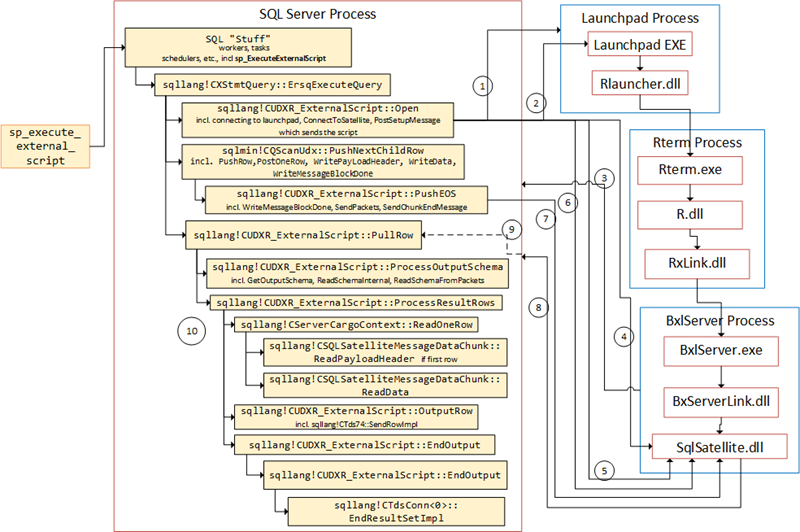
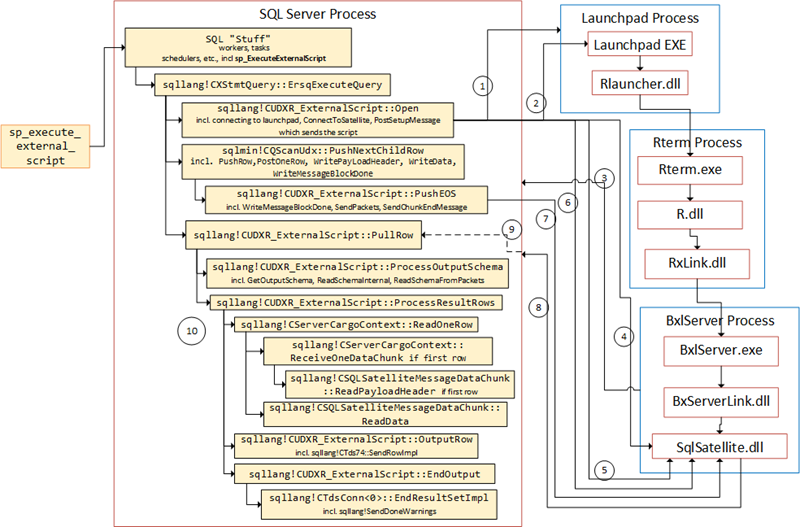
Edited Internals XVII

diff --git a/2018/01/03/microsoft-sql-server-r-services-internals-xvii/index.html b/2018/01/03/microsoft-sql-server-r-services-internals-xvii/index.html
@@ -53,23 +53,7 @@
 </div></div><div data-line='16' class='code-highlight-row numbered'><div class='code-highlight-line'>      <span class="n">sqllang</span><span class="o">!</span><span class="n">CColMetaData</span><span class="o">::</span><span class="n">CCols</span>
 </div></div><div data-line='17' class='code-highlight-row numbered'><div class='code-highlight-line'>    <span class="p">...</span>
 </div></div><div data-line='18' class='code-highlight-row numbered'><div class='code-highlight-line'>  <span class="n">sqllang</span><span class="o">!</span><span class="n">CUDXR_ExternalScript</span><span class="o">::</span><span class="n">OutputRow</span>
-</div></div><div data-line='19' class='code-highlight-row numbered'><div class='code-highlight-line'><span class="n">sqllang</span><span class="o">!</span><span class="n">CUDXR_ExternalScript</span><span class="o">::</span><span class="n">ProcessResultRows</span></div></div></pre></div></figure></p> <p><strong>Code Snippet 5:</strong> <em>Routines from sqllang!CUDXR_ExternalScript::ProcessResultRows</em></p> <p>By now we understand that <code>ProcessResultRows</code> is doing what it says on the packet; it takes the rows coming back from the SqlSatellite, processes it, and then outputs it through <code>sqllang!CUDXR_ExternalScript::OutputRow</code>. From what we see in <em>Code Snippet 5</em>, it looks like the rows being outputted is outputted in the <em>TDS</em> format - look at the calls to <code>sqllang!CTds74::SendRowImpl</code>. This would make sense since clients etc., do not "speak" <em>BXL</em>, and from what we've seen - <em>BXL</em> is what is coming back from the SqlSatellite.</p> <p>So the similar code in the three files (<code>wt1</code>, <code>wt2</code>, and <code>wt3</code>) processes the rows coming back, and outputs them as TDS, cool! What about the fourth file, the last <code>ProcessResultRows</code> - what does that one do? Let's have a look at some of the calls that happens:</p> <p><figure class='code-highlight-figure'><figcaption class='code-highlight-caption'><span class='code-highlight-caption-title'>Last ProcessResultRows</span></figcaption><div class='code-highlight'><pre class='code-highlight-pre'><div data-line='1' class='code-highlight-row numbered'><div class='code-highlight-line'><span class="n">sqllang</span><span class="o">!</span><span class="n">CUDXR_ExternalScript</span><span class="o">::</span><span class="n">ProcessResultRows</span>
-</div></div><div data-line='2' class='code-highlight-row numbered'><div class='code-highlight-line'>  <span class="n">sqllang</span><span class="o">!</span><span class="n">CServerCargoContext</span><span class="o">::</span><span class="n">ReadOneRow</span>
-</div></div><div data-line='3' class='code-highlight-row numbered'><div class='code-highlight-line'>    <span class="p">...</span>
-</div></div><div data-line='4' class='code-highlight-row numbered'><div class='code-highlight-line'>    <span class="n">sqllang</span><span class="o">!</span><span class="n">CSQLSatelliteCommunication</span><span class="o">::</span><span class="n">GetSQLSatelliteMessage</span>
-</div></div><div data-line='5' class='code-highlight-row numbered'><div class='code-highlight-line'>  <span class="n">sqllang</span><span class="o">!</span><span class="n">CServerCargoContext</span><span class="o">::</span><span class="n">ReadOneRow</span>
-</div></div><div data-line='6' class='code-highlight-row numbered'><div class='code-highlight-line'>    <span class="n">sqllang</span><span class="o">!</span><span class="n">CServerCargoContext</span><span class="o">::</span><span class="n">ReceiveOneDataChunk</span>
-</div></div><div data-line='7' class='code-highlight-row numbered'><div class='code-highlight-line'>      <span class="p">...</span>
-</div></div><div data-line='8' class='code-highlight-row numbered'><div class='code-highlight-line'><span class="n">sqllang</span><span class="o">!</span><span class="n">CUDXR_ExternalScript</span><span class="o">::</span><span class="n">ProcessResultRows</span>
-</div></div><div data-line='9' class='code-highlight-row numbered'><div class='code-highlight-line'>  <span class="n">sqllang</span><span class="o">!</span><span class="n">CUDXR_ExternalScript</span><span class="o">::</span><span class="n">EndOutput</span>
-</div></div><div data-line='10' class='code-highlight-row numbered'><div class='code-highlight-line'>    <span class="n">KERNEL32</span><span class="o">!</span><span class="n">TlsGetValueStub</span>
-</div></div><div data-line='11' class='code-highlight-row numbered'><div class='code-highlight-line'>    <span class="n">KERNEL32</span><span class="o">!</span><span class="n">TlsGetValue</span>
-</div></div><div data-line='12' class='code-highlight-row numbered'><div class='code-highlight-line'>  <span class="n">sqllang</span><span class="o">!</span><span class="n">CUDXR_ExternalScript</span><span class="o">::</span><span class="n">EndOutput</span>
-</div></div><div data-line='13' class='code-highlight-row numbered'><div class='code-highlight-line'>    <span class="n">sqllang</span><span class="o">!</span><span class="n">CTdsConn</span><span class="o">&lt;</span><span class="mi">0</span><span class="o">&gt;::</span><span class="n">EndResultSetImpl</span>
-</div></div><div data-line='14' class='code-highlight-row numbered'><div class='code-highlight-line'>      <span class="n">sqllang</span><span class="o">!</span><span class="n">SendDoneWarnings</span>
-</div></div><div data-line='15' class='code-highlight-row numbered'><div class='code-highlight-line'>    <span class="n">sqllang</span><span class="o">!</span><span class="n">CTdsConn</span><span class="o">&lt;</span><span class="mi">0</span><span class="o">&gt;::</span><span class="n">EndResultSetImpl</span>
-</div></div><div data-line='16' class='code-highlight-row numbered'><div class='code-highlight-line'>  <span class="n">sqllang</span><span class="o">!</span><span class="n">CUDXR_ExternalScript</span><span class="o">::</span><span class="n">EndOutput</span>
-</div></div><div data-line='17' class='code-highlight-row numbered'><div class='code-highlight-line'><span class="n">sqllang</span><span class="o">!</span><span class="n">CUDXR_ExternalScript</span><span class="o">::</span><span class="n">ProcessResultRows</span></div></div></pre></div></figure></p> <p><strong>Code Snippet 6:</strong> <em>Routines from Last ProcessResultRows</em></p> <p>From the code in <em>Code Snippet 6</em> it looks like the last <code>ProcessResultRows</code> indicates that there are no more data, and the question is what indicates this in the packets SQL Server receives from the SqlSatellite? This is now some speculation from my side, but I strongly suspect this originates from the 28 bytes end-sequence we mentioned in <a href="/2017/12/24/microsoft-sql-server-r-services-internals-xvi/">Internals - XVI</a> as well as in the <em>Recap</em> above.</p> <p>Now we've seen how the last third part of the first <code>ProcessResultRows</code>, and the second and third <code>ProcessResultRows</code>, handles the rows coming back. The last <code>ProcessResultRows</code> is to handle the end of the returned data, and the processing is based on the end-sequence. So what about the first part of the first <code>ProcessResultRows</code>, what does that do? Let's have a look at the trace file fir the first <code>ProcessResultRows</code>:</p> <p><figure class='code-highlight-figure'><figcaption class='code-highlight-caption'><span class='code-highlight-caption-title'>First ProcessResultRows</span></figcaption><div class='code-highlight'><pre class='code-highlight-pre'><div data-line='1' class='code-highlight-row numbered'><div class='code-highlight-line'><span class="n">sqllang</span><span class="o">!</span><span class="n">CUDXR_ExternalScript</span><span class="o">::</span><span class="n">ProcessResultRows</span>
+</div></div><div data-line='19' class='code-highlight-row numbered'><div class='code-highlight-line'><span class="n">sqllang</span><span class="o">!</span><span class="n">CUDXR_ExternalScript</span><span class="o">::</span><span class="n">ProcessResultRows</span></div></div></pre></div></figure></p> <p><strong>Code Snippet 5:</strong> <em>Routines from sqllang!CUDXR_ExternalScript::ProcessResultRows</em></p> <p>By now we understand that <code>ProcessResultRows</code> is doing what it says on the packet; it takes the rows coming back from the SqlSatellite, processes it, and then outputs it through <code>sqllang!CUDXR_ExternalScript::OutputRow</code>. From what we see in <em>Code Snippet 5</em>, it looks like the rows being outputted is outputted in the <em>TDS</em> format - look at the calls to <code>sqllang!CTds74::SendRowImpl</code>. This would make sense since clients etc., do not "speak" <em>BXL</em>, and from what we've seen - <em>BXL</em> is what is coming back from the SqlSatellite.</p> <blockquote><p><strong>EDITED:</strong> The following section down to <code>PullRow</code> has been slightly changed, to make it more readable.</p></blockquote> <p>So the similar code in the three files (<code>wt1</code>, <code>wt2</code>, and <code>wt3</code>) processes the rows coming back, and outputs them as TDS, cool! So what about the first part of the first <code>ProcessResultRows</code>, what does that do? Let's have a look at the trace file for the first <code>ProcessResultRows</code>:</p> <p><figure class='code-highlight-figure'><figcaption class='code-highlight-caption'><span class='code-highlight-caption-title'>First ProcessResultRows</span></figcaption><div class='code-highlight'><pre class='code-highlight-pre'><div data-line='1' class='code-highlight-row numbered'><div class='code-highlight-line'><span class="n">sqllang</span><span class="o">!</span><span class="n">CUDXR_ExternalScript</span><span class="o">::</span><span class="n">ProcessResultRows</span>
 </div></div><div data-line='2' class='code-highlight-row numbered'><div class='code-highlight-line'>  <span class="n">sqllang</span><span class="o">!</span><span class="n">CServerCargoContext</span><span class="o">::</span><span class="n">ReadOneRow</span>
 </div></div><div data-line='3' class='code-highlight-row numbered'><div class='code-highlight-line'>    <span class="p">...</span>
 </div></div><div data-line='4' class='code-highlight-row numbered'><div class='code-highlight-line'>    <span class="n">sqllang</span><span class="o">!</span><span class="n">CSQLSatelliteCommunication</span><span class="o">::</span><span class="n">GetSQLSatelliteMessage</span>
@@ -99,7 +83,23 @@
 </div></div><div data-line='28' class='code-highlight-row numbered'><div class='code-highlight-line'>      <span class="n">sqllang</span><span class="o">!</span><span class="n">CSQLSatelliteMessageDataChunk</span><span class="o">::</span><span class="n">ReadPayloadHeader</span>
 </div></div><div data-line='29' class='code-highlight-row numbered'><div class='code-highlight-line'>    <span class="n">sqllang</span><span class="o">!</span><span class="n">CSQLSatelliteMessageDataChunk</span><span class="o">::</span><span class="n">BindBufferForRead</span>
 </div></div><div data-line='30' class='code-highlight-row numbered'><div class='code-highlight-line'>  <span class="p">...</span>
-</div></div><div data-line='31' class='code-highlight-row numbered'><div class='code-highlight-line'> </div></div></pre></div></figure> <strong>Code Snippet 7:</strong> <em>Routines from First ProcessResultRows</em></p> <p>In <em>Code Snippet 7</em> we see various parts of the first 2/3 of the first call to <code>ProcessResultRows</code>. What is interesting is the <code>sqllang!CSQLSatelliteMessageDataChunk::ReadPayloadHeader</code> and the <code>sqllang!CSQLSatelliteCommunication::SendAckMessage</code> calls.</p> <p>From what I gather, the <code>ReadPayloadHeader</code>, reads the column header for each column in the result-set being returned, in order to determine data types etc. The <code>SendAckMessage</code>, sends a message back to the SqlSatellite, most likely indicating that SQL Server has received the two packages being sent from the SqlSatellite. We can confirm the "sending message back" part by:</p> <ul> <li>Disabling all break-point in <em>WinDbg</em> except for the breakpoint at <code>sqllang!CUDXR_ExternalScript::ProcessResultRows</code>.</li> <li>Set a breakpoint at <code>sqllang!CSQLSatelliteConnection::WriteMessage</code>, but disable it.</li> <li>Run <em>Process Monitor</em> as admin and load the filter we used in <a href="/2017/12/24/microsoft-sql-server-r-services-internals-xvi/">Internals - XVI</a> where we filtered for <code>TCP Send</code> and <code>TCP Receive</code> for <code>BxlServer.exe</code>.</li> </ul> <p>Execute the code in <em>Code Snippet 2</em>, and when you hit the <code>ProcessResultRows</code> breakpoint, look at the output from <em>Process Monitor</em>. You should see something like so:</p> <p><img class="center" src="/images/posts/sql_r_services_17_procmon1.png" width="579" height="280" > <strong>Figure 1:</strong> <em>Output Before WriteMessage</em></p> <p>We see in <em>Figure 1</em> how the two data packets have been sent to SQL Server, but nothing else has happened. Enable the <code>WriteMessage</code> break-point and continue the execution. We'll now break at <code>WriteMessage</code>, but nothing has happened in <em>Process Monitor</em> (no more packages have been sent or received). However, when we now continue the execution we'll see in *Process Monitor how a packet is sent to the SqlSatellite (<code>BxlServer.exe</code>) with a length of 28 bytes, and then two packets are returned back from the SQlSatellite:</p> <p><img class="center" src="/images/posts/sql_r_services_17_procmon2.png" width="519" height="325" > <strong>Figure 2</strong> <em>Output After WriteMessage</em></p> <p>We see the ack message sent to the SqlSatellite outlined in red in <em>Figure 2</em>. Now we should be able to answer the question above about why there are one more <code>ProcessResultRows</code> than rows returned, and we should also have a fairly good grasp of what happens when processing rows returned from the SqlSatellite:</p> <ul> <li>Rows are processed by <code>sqllang!CUDXR_ExternalScript::ProcessResultRows</code>.</li> <li>During the first <code>ProcessResultRows</code> the column header(s) are processed, followed by the first row.</li> <li>Subsequent rows are processed by <code>ProcessResultRows</code>.</li> <li>A final <code>ProcessResultRows</code> processes the end-sequence of the data packet(s).</li> </ul> <p>So, what about the first question we had above; why is there a <code>PullRow</code> called straight after <code>SendPackets</code>, e.g. the <code>PullRow</code> happens before data is returned from the SqlSatellite? To try to figure this out, let's disable all breakpoints, except for the breakpoint at <code>sqllang!CUDXR_ExternalScript::ProcessResultRows</code>, and execute <em>Code Snippet 2</em> again (you can take out the <code>Sys.sleep</code> if you want). When you execute and hit the breakpoint <code>ProcessResultRows</code> for the first time, look at the call-stack: <code>k</code>:</p> <p><figure class='code-highlight-figure'><figcaption class='code-highlight-caption'><span class='code-highlight-caption-title'>Call Stack</span></figcaption><div class='code-highlight'><pre class='code-highlight-pre'><div data-line='1' class='code-highlight-row numbered'><div class='code-highlight-line'><span class="n">sqllang</span><span class="o">!</span><span class="n">CUDXR_ExternalScript</span><span class="o">::</span><span class="n">ProcessResultRows</span>
+</div></div><div data-line='31' class='code-highlight-row numbered'><div class='code-highlight-line'> </div></div></pre></div></figure> <strong>Code Snippet 6:</strong> <em>Routines from First ProcessResultRows</em></p> <p>In <em>Code Snippet 6</em> we see various parts of the first 2/3 of the first call to <code>ProcessResultRows</code>. What is interesting is the <code>sqllang!CServerCargoContext::ReceiveOneDataChunk</code>, <code>sqllang!CSQLSatelliteMessageDataChunk::ReadPayloadHeader</code> and the <code>sqllang!CSQLSatelliteCommunication::SendAckMessage</code> calls.</p> <p>From what I gather, the <code>ReceiveOneDataChunk</code> routine reads in data that has been received from a socket, the <code>ReadPayloadHeader</code> reads the column header for each column in the result-set being returned, in order to determine data types etc. The <code>SendAckMessage</code>, sends a message back to the SqlSatellite, most likely indicating that SQL Server has received the two packages being sent from the SqlSatellite. We can confirm the "sending message back" part by:</p> <ul> <li>Disabling all break-point in <em>WinDbg</em> except for the breakpoint at <code>sqllang!CUDXR_ExternalScript::ProcessResultRows</code>.</li> <li>Set a breakpoint at <code>sqllang!CSQLSatelliteConnection::WriteMessage</code>, but disable it.</li> <li>Run <em>Process Monitor</em> as admin and load the filter we used in <a href="/2017/12/24/microsoft-sql-server-r-services-internals-xvi/">Internals - XVI</a> where we filtered for <code>TCP Send</code> and <code>TCP Receive</code> for <code>BxlServer.exe</code>.</li> </ul> <p>Execute the code in <em>Code Snippet 2</em>, and when you hit the <code>ProcessResultRows</code> breakpoint, look at the output from <em>Process Monitor</em>. You should see something like so:</p> <p><img class="center" src="/images/posts/sql_r_services_17_procmon1.png" width="579" height="280" > <strong>Figure 1:</strong> <em>Output Before WriteMessage</em></p> <p>We see in <em>Figure 1</em> how the two data packets have been sent to SQL Server, but nothing else has happened. Enable the <code>WriteMessage</code> break-point and continue the execution. We'll now break at <code>WriteMessage</code>, but nothing has happened in <em>Process Monitor</em> (no more packages have been sent or received). However, when we now continue the execution we'll see in *Process Monitor how a packet is sent to the SqlSatellite (<code>BxlServer.exe</code>) with a length of 28 bytes, and then two packets are returned back from the SQlSatellite:</p> <p><img class="center" src="/images/posts/sql_r_services_17_procmon2.png" width="519" height="325" > <strong>Figure 2</strong> <em>Output After WriteMessage</em></p> <p>We see the ack message sent to the SqlSatellite outlined in red in <em>Figure 2</em>, and the two packets coming back outlined in blue. Further down in this post as well as in an upcoming post we'll see if we can determine what the two packets coming back from the SqlSatellite do.</p> <p>Now we've seen how the first <code>ProcessResultRows</code> is doing both schema "stuff" as well as processing the first row, and how the second and third <code>ProcessResultRows</code>, handle the remaining rows. What about the fourth file, the last <code>ProcessResultRows</code> - what does that one do? Let's have a look at some of the calls that happens:</p> <p><figure class='code-highlight-figure'><figcaption class='code-highlight-caption'><span class='code-highlight-caption-title'>Last ProcessResultRows</span></figcaption><div class='code-highlight'><pre class='code-highlight-pre'><div data-line='1' class='code-highlight-row numbered'><div class='code-highlight-line'><span class="n">sqllang</span><span class="o">!</span><span class="n">CUDXR_ExternalScript</span><span class="o">::</span><span class="n">ProcessResultRows</span>
+</div></div><div data-line='2' class='code-highlight-row numbered'><div class='code-highlight-line'>  <span class="n">sqllang</span><span class="o">!</span><span class="n">CServerCargoContext</span><span class="o">::</span><span class="n">ReadOneRow</span>
+</div></div><div data-line='3' class='code-highlight-row numbered'><div class='code-highlight-line'>    <span class="p">...</span>
+</div></div><div data-line='4' class='code-highlight-row numbered'><div class='code-highlight-line'>    <span class="n">sqllang</span><span class="o">!</span><span class="n">CSQLSatelliteCommunication</span><span class="o">::</span><span class="n">GetSQLSatelliteMessage</span>
+</div></div><div data-line='5' class='code-highlight-row numbered'><div class='code-highlight-line'>  <span class="n">sqllang</span><span class="o">!</span><span class="n">CServerCargoContext</span><span class="o">::</span><span class="n">ReadOneRow</span>
+</div></div><div data-line='6' class='code-highlight-row numbered'><div class='code-highlight-line'>    <span class="n">sqllang</span><span class="o">!</span><span class="n">CServerCargoContext</span><span class="o">::</span><span class="n">ReceiveOneDataChunk</span>
+</div></div><div data-line='7' class='code-highlight-row numbered'><div class='code-highlight-line'>      <span class="p">...</span>
+</div></div><div data-line='8' class='code-highlight-row numbered'><div class='code-highlight-line'><span class="n">sqllang</span><span class="o">!</span><span class="n">CUDXR_ExternalScript</span><span class="o">::</span><span class="n">ProcessResultRows</span>
+</div></div><div data-line='9' class='code-highlight-row numbered'><div class='code-highlight-line'>  <span class="n">sqllang</span><span class="o">!</span><span class="n">CUDXR_ExternalScript</span><span class="o">::</span><span class="n">EndOutput</span>
+</div></div><div data-line='10' class='code-highlight-row numbered'><div class='code-highlight-line'>    <span class="n">KERNEL32</span><span class="o">!</span><span class="n">TlsGetValueStub</span>
+</div></div><div data-line='11' class='code-highlight-row numbered'><div class='code-highlight-line'>    <span class="n">KERNEL32</span><span class="o">!</span><span class="n">TlsGetValue</span>
+</div></div><div data-line='12' class='code-highlight-row numbered'><div class='code-highlight-line'>  <span class="n">sqllang</span><span class="o">!</span><span class="n">CUDXR_ExternalScript</span><span class="o">::</span><span class="n">EndOutput</span>
+</div></div><div data-line='13' class='code-highlight-row numbered'><div class='code-highlight-line'>    <span class="n">sqllang</span><span class="o">!</span><span class="n">CTdsConn</span><span class="o">&lt;</span><span class="mi">0</span><span class="o">&gt;::</span><span class="n">EndResultSetImpl</span>
+</div></div><div data-line='14' class='code-highlight-row numbered'><div class='code-highlight-line'>      <span class="n">sqllang</span><span class="o">!</span><span class="n">SendDoneWarnings</span>
+</div></div><div data-line='15' class='code-highlight-row numbered'><div class='code-highlight-line'>    <span class="n">sqllang</span><span class="o">!</span><span class="n">CTdsConn</span><span class="o">&lt;</span><span class="mi">0</span><span class="o">&gt;::</span><span class="n">EndResultSetImpl</span>
+</div></div><div data-line='16' class='code-highlight-row numbered'><div class='code-highlight-line'>  <span class="n">sqllang</span><span class="o">!</span><span class="n">CUDXR_ExternalScript</span><span class="o">::</span><span class="n">EndOutput</span>
+</div></div><div data-line='17' class='code-highlight-row numbered'><div class='code-highlight-line'><span class="n">sqllang</span><span class="o">!</span><span class="n">CUDXR_ExternalScript</span><span class="o">::</span><span class="n">ProcessResultRows</span></div></div></pre></div></figure></p> <p><strong>Code Snippet 7:</strong> <em>Routines from Last ProcessResultRows</em></p> <p>From the code in <em>Code Snippet 7</em> we see how there is a <code>ReceiveOneDataChunk</code> call, which indicates data is being read after having been received from a socket. It also looks like that this last <code>ProcessResultRows</code> indicates that there are no more data: <code>sqllang!CUDXR_ExternalScript::EndOutput</code>, <code>sqllang!CTdsConn&lt;0&gt;::EndResultSetImpl</code> and <code>sqllang!SendDoneWarnings</code>. The question is what indicates this in the packets SQL Server receives from the SqlSatellite? This is now some speculation from my side, but I strongly suspect this originates from one of the 28 byte packets coming back from SqlSatellite after SQL Server sent the ack message above. I also think that the end-sequence that we mentioned in <a href="/2017/12/24/microsoft-sql-server-r-services-internals-xvi/">Internals - XVI</a> as well as in the <em>Recap</em> above, has something to do with this.</p> <p>Now we should be able to answer the question above about why there are one more <code>ProcessResultRows</code> than rows returned, and we should also have a fairly good grasp of what happens when processing rows returned from the SqlSatellite:</p> <ul> <li>Rows are processed by <code>sqllang!CUDXR_ExternalScript::ProcessResultRows</code>.</li> <li>During the first <code>ProcessResultRows</code> the column header(s) are processed, followed by the first row.</li> <li>Subsequent rows are processed by <code>ProcessResultRows</code>.</li> <li>A final <code>ProcessResultRows</code> processes one of the packets received back from SqlSatellite after ack message has been sent.</li> </ul> <p>So, what about the first question we had above; why is there a <code>PullRow</code> called straight after <code>SendPackets</code>, e.g. the <code>PullRow</code> happens before data is returned from the SqlSatellite? To try to figure this out, let's disable all breakpoints, except for the breakpoint at <code>sqllang!CUDXR_ExternalScript::ProcessResultRows</code>, and execute <em>Code Snippet 2</em> again (you can take out the <code>Sys.sleep</code> if you want). When you execute and hit the breakpoint <code>ProcessResultRows</code> for the first time, look at the call-stack: <code>k</code>:</p> <p><figure class='code-highlight-figure'><figcaption class='code-highlight-caption'><span class='code-highlight-caption-title'>Call Stack</span></figcaption><div class='code-highlight'><pre class='code-highlight-pre'><div data-line='1' class='code-highlight-row numbered'><div class='code-highlight-line'><span class="n">sqllang</span><span class="o">!</span><span class="n">CUDXR_ExternalScript</span><span class="o">::</span><span class="n">ProcessResultRows</span>
 </div></div><div data-line='2' class='code-highlight-row numbered'><div class='code-highlight-line'><span class="n">sqllang</span><span class="o">!</span><span class="n">CUDXR_ExternalScript</span><span class="o">::</span><span class="n">PullRow</span><span class="o">+</span><span class="mh">0xf4</span>
 </div></div><div data-line='3' class='code-highlight-row numbered'><div class='code-highlight-line'><span class="n">sqlmin</span><span class="o">!</span><span class="n">CQScanUdx</span><span class="o">::</span><span class="n">GetRow</span><span class="o">+</span><span class="mh">0x196</span>
 </div></div><div data-line='4' class='code-highlight-row numbered'><div class='code-highlight-line'><span class="n">sqlmin</span><span class="o">!</span><span class="n">CQueryScan</span><span class="o">::</span><span class="n">GetRow</span><span class="o">+</span><span class="mh">0x81</span>
@@ -153,4 +153,4 @@
 </div></div><div data-line='4' class='code-highlight-row numbered'><div class='code-highlight-line'>    <span class="n">sqllang</span><span class="o">!</span><span class="n">CUDXR_ExternalScript</span><span class="o">::</span><span class="n">GetOutputSchema</span>
 </div></div><div data-line='5' class='code-highlight-row numbered'><div class='code-highlight-line'>      <span class="n">sqllang</span><span class="o">!</span><span class="n">CServerCargoContext</span><span class="o">::</span><span class="n">ReadSchemaInternal</span>
 </div></div><div data-line='6' class='code-highlight-row numbered'><div class='code-highlight-line'>        <span class="n">sqllang</span><span class="o">!</span><span class="n">CServerCargoContext</span><span class="o">::</span><span class="n">ReadSchemaFromPackets</span>
-</div></div><div data-line='7' class='code-highlight-row numbered'><div class='code-highlight-line'>  <span class="n">sqllang</span><span class="o">!</span><span class="n">CUDXR_ExternalScript</span><span class="o">::</span><span class="n">ProcessResultRows</span></div></div></pre></div></figure></p> <p><strong>Code Snippet 13:</strong> <em>Code Flow Handling Schema</em></p> <p>So what SQL Server is doing is that before it start processing the returning rows, it determines what the schema is for the result-set. As far as I can tell, SQL Server uses both the initial "small" packet from the SqlSatellite as well as the packet containing the actual result-set data.</p> <h2>Summary</h2> <p>This post tried to determine what SQL Server is doing when data is being returned from the SqlSatellite. We saw how, after the data packet(s) were sent to the SqlSatellite:</p> <ul> <li>Immediately <code>sqllang!CUDXR_ExternalScript::PullRow</code> was called, and waited to be signaled when data was returned.</li> <li>The schema of the returning data was determined by calls to <code>sqllang!CUDXR_ExternalScript::ProcessOutputSchema</code>, <code>sqllang!CUDXR_ExternalScript::GetOutputSchema</code>, <code>sqllang!CServerCargoContext::ReadSchemaInternal</code>, and <code>sqllang!CServerCargoContext::ReadSchemaFromPacket</code>.</li> <li>The result rows were processed, and turned into <em>TDS</em> packets, by calls to <code>ProcessResultRows</code> (one <code>ProcessResultRows</code> per row).</li> <li>A final <code>ProcessResultRows</code> was called to handle the end-sequence from the data coming back.</li> </ul> <p>The figure below illustrates the flow:</p> <p><img class="center" src="/images/posts/sql_r_services_17_flow.png" width="800" height="532" > <strong>Figure 3:</strong> <em>Code Flow Receiving Data from SqlSatellite</em></p> <p>If you have read <a href="/2017/12/02/microsoft-sql-server-r-services-internals-xv/">Internals - XV</a>, you see how <em>Figure 3</em> is similar. I have however "compacted" the sending data to SqlSatellite somewhat. The numbered arrows shows the communication out to and in from SQL Server, and in what order it happens:</p> <ol> <li>SQL Server opens named pipe connection to the launchpad service.</li> <li>Message sent to the launchpad service.</li> <li>After the call above, the SqlSatellite opens a TCP/IP connection to SQL Server.</li> <li>SQL Server sends the first packet to the SQL Satellite for authentication purposes.</li> <li>A second authentication packet is sent to SqlSatellite.</li> <li>The script is sent from inside <code>sqllang!CSatelliteProxy::PostSetupMessage</code></li> <li>The data for <code>@input_data_1</code> is sent together with two end packets.</li> <li>Packet are coming back to SQL Server containing meta-data and the actual data.</li> <li><code>PullRow</code> is being signaled.</li> <li>Execution continues to process meta-data as well as result rows.</li> </ol> <p>There are still a couple of things to discuss about data coming back to SQL Server, as well a how errors are handled, and we'll do that in a future post.</p> <h2>~ Finally</h2> <p>If you have comments, questions etc., please comment on this post or <a href="mailto:niels.it.berglund@gmail.com">ping</a> me.</p> <p> <h2>Share this Post:</h2> <a href="https://twitter.com/intent/tweet?url=http://nielsberglund.com/2018/01/03/microsoft-sql-server-r-services-internals-xvii/&text=Microsoft SQL Server R Services - Internals XVII&via=nielsberglund" target="_blank">Twitter</a> <a href="https://plus.google.com/share?url=http://www.nielsberglund.com//2018/01/03/microsoft-sql-server-r-services-internals-xvii/" onclick="javascript:window.open(this.href,'', 'menubar=no,toolbar=no,resizable=yes,scrollbars=yes,height=600,width=600');return false;"> | Google+</a> <a href="https://www.linkedin.com/shareArticle? mini=true &url=http://www.nielsberglund.com/2018/01/03/microsoft-sql-server-r-services-internals-xvii/ &title=Microsoft SQL Server R Services - Internals XVII &summary=Blog post: Using WinDbg to find out what happens inside SQL Server when data is returned from SqlSatellite &source=http://www.nielsberglund.com/2018/01/03/microsoft-sql-server-r-services-internals-xvii/"> | LinkedIn</a> </p> <!--<script async src="//platform.twitter.com/widgets.js" charset="utf-8"></script> http://www.linkedin.com/shareArticle?mini=true&url=<URL>&title=<TITILE>&summary=<DESCRIPTION>&sourc https://www.linkedin.com/shareArticle?mini=true&url=http://nielsberglund.com/2018/01/03/microsoft-sql-server-r-services-internals-xvii/ --> <p> <h2>Blog Feed:</h2> To automatically receive more posts like this, please <a href="http://feeds.feedburner.com/manageddata/" target="_blank"> subscribe to my RSS/Atom feed</a> in your feed reader!</p> <br/> <script async src="//pagead2.googlesyndication.com/pagead/js/adsbygoogle.js"></script> <!-- Ad2 --> <ins class="adsbygoogle" style="display:block" data-ad-client="ca-pub-3005153158271538" data-ad-slot="1158080725" data-ad-format="auto"></ins> <script> (adsbygoogle = window.adsbygoogle || []).push({}); </script> <br/> </div> <div class="related"> <h2>Related Posts</h2> <div class="related-posts"> <h3><a href="/2017/12/24/microsoft-sql-server-r-services-internals-xvi/"> Microsoft SQL Server R Services - Internals XVI <small> (24 Dec 2017)</small> </a></h3> </div> <div class="related-posts"> <h3><a href="/2017/12/02/microsoft-sql-server-r-services-internals-xv/"> Microsoft SQL Server R Services - Internals XV <small> (02 Dec 2017)</small> </a></h3> </div> <div class="related-posts"> <h3><a href="/2017/11/25/microsoft-sql-server-r-services-internals-xiv/"> Microsoft SQL Server R Services - Internals XIV <small> (25 Nov 2017)</small> </a></h3> </div> </div> <div id="disqus_thread"></div> <script> var disqus_developer = 1; (function() { /*DON'T EDIT BELOW THIS LINE*/ var d = document, s = d.createElement('script'); s.src = '//manageddata.disqus.com/embed.js'; s.setAttribute('data-timestamp', +new Date()); (d.head || d.body).appendChild(s); })(); </script> <noscript>Please enable JavaScript to view the <a href="https://disqus.com/?ref_noscript" rel="nofollow">comments powered by Disqus.</a></noscript> </div> <script> (function(i,s,o,g,r,a,m){i['GoogleAnalyticsObject']=r;i[r]=i[r]||function(){ (i[r].q=i[r].q||[]).push(arguments)},i[r].l=1*new Date();a=s.createElement(o), m=s.getElementsByTagName(o)[0];a.async=1;a.src=g;m.parentNode.insertBefore(a,m) })(window,document,'script','//www.google-analytics.com/analytics.js','ga'); ga('create', 'UA-18914734-2', 'auto'); ga('send', 'pageview'); </script> </body> </html>
+</div></div><div data-line='7' class='code-highlight-row numbered'><div class='code-highlight-line'>  <span class="n">sqllang</span><span class="o">!</span><span class="n">CUDXR_ExternalScript</span><span class="o">::</span><span class="n">ProcessResultRows</span></div></div></pre></div></figure></p> <p><strong>Code Snippet 13:</strong> <em>Code Flow Handling Schema</em></p> <p>So what SQL Server is doing is that before it start processing the returning rows, it determines what the schema is for the result-set. As far as I can tell, SQL Server uses both the initial "small" packet from the SqlSatellite as well as the packet containing the actual result-set data.</p> <h2>Summary</h2> <p>This post tried to determine what SQL Server is doing when data is being returned from the SqlSatellite. We saw how, after the data packet(s) were sent to the SqlSatellite:</p> <ul> <li>Immediately <code>sqllang!CUDXR_ExternalScript::PullRow</code> was called, and waited to be signaled when data was returned.</li> <li>The schema of the returning data was determined by calls to <code>sqllang!CUDXR_ExternalScript::ProcessOutputSchema</code>, <code>sqllang!CUDXR_ExternalScript::GetOutputSchema</code>, <code>sqllang!CServerCargoContext::ReadSchemaInternal</code>, and <code>sqllang!CServerCargoContext::ReadSchemaFromPacket</code>.</li> <li>The result rows were processed, and turned into <em>TDS</em> packets, by calls to <code>ProcessResultRows</code> (one <code>ProcessResultRows</code> per row).</li> <li>A final <code>ProcessResultRows</code> was called to indicate that no more rows are coming.</li> </ul> <p>The figure below illustrates the flow:</p> <p><img class="center" src="/images/posts/sql_r_services_17_flow.png" width="800" height="527" > <strong>Figure 3:</strong> <em>Code Flow Receiving Data from SqlSatellite</em></p> <p>If you have read <a href="/2017/12/02/microsoft-sql-server-r-services-internals-xv/">Internals - XV</a>, you see how <em>Figure 3</em> is similar. I have however "compacted" the sending data to SqlSatellite somewhat. The numbered arrows shows the communication out to and in from SQL Server, and in what order it happens:</p> <ol> <li>SQL Server opens named pipe connection to the launchpad service.</li> <li>Message sent to the launchpad service.</li> <li>After the call above, the SqlSatellite opens a TCP/IP connection to SQL Server.</li> <li>SQL Server sends the first packet to the SQL Satellite for authentication purposes.</li> <li>A second authentication packet is sent to SqlSatellite.</li> <li>The script is sent from inside <code>sqllang!CSatelliteProxy::PostSetupMessage</code></li> <li>The data for <code>@input_data_1</code> is sent together with two end packets.</li> <li>Packet are coming back to SQL Server containing meta-data and the actual data.</li> <li><code>PullRow</code> is being signaled.</li> <li>Execution continues to process meta-data as well as result rows.</li> </ol> <p>There are still a couple of things to discuss about data coming back to SQL Server, as well a how errors are handled, and we'll do that in a future post.</p> <h2>~ Finally</h2> <p>If you have comments, questions etc., please comment on this post or <a href="mailto:niels.it.berglund@gmail.com">ping</a> me.</p> <p> <h2>Share this Post:</h2> <a href="https://twitter.com/intent/tweet?url=http://nielsberglund.com/2018/01/03/microsoft-sql-server-r-services-internals-xvii/&text=Microsoft SQL Server R Services - Internals XVII&via=nielsberglund" target="_blank">Twitter</a> <a href="https://plus.google.com/share?url=http://www.nielsberglund.com//2018/01/03/microsoft-sql-server-r-services-internals-xvii/" onclick="javascript:window.open(this.href,'', 'menubar=no,toolbar=no,resizable=yes,scrollbars=yes,height=600,width=600');return false;"> | Google+</a> <a href="https://www.linkedin.com/shareArticle? mini=true &url=http://www.nielsberglund.com/2018/01/03/microsoft-sql-server-r-services-internals-xvii/ &title=Microsoft SQL Server R Services - Internals XVII &summary=Blog post: Using WinDbg to find out what happens inside SQL Server when data is returned from SqlSatellite &source=http://www.nielsberglund.com/2018/01/03/microsoft-sql-server-r-services-internals-xvii/"> | LinkedIn</a> </p> <!--<script async src="//platform.twitter.com/widgets.js" charset="utf-8"></script> http://www.linkedin.com/shareArticle?mini=true&url=<URL>&title=<TITILE>&summary=<DESCRIPTION>&sourc https://www.linkedin.com/shareArticle?mini=true&url=http://nielsberglund.com/2018/01/03/microsoft-sql-server-r-services-internals-xvii/ --> <p> <h2>Blog Feed:</h2> To automatically receive more posts like this, please <a href="http://feeds.feedburner.com/manageddata/" target="_blank"> subscribe to my RSS/Atom feed</a> in your feed reader!</p> <br/> <script async src="//pagead2.googlesyndication.com/pagead/js/adsbygoogle.js"></script> <!-- Ad2 --> <ins class="adsbygoogle" style="display:block" data-ad-client="ca-pub-3005153158271538" data-ad-slot="1158080725" data-ad-format="auto"></ins> <script> (adsbygoogle = window.adsbygoogle || []).push({}); </script> <br/> </div> <div class="related"> <h2>Related Posts</h2> <div class="related-posts"> <h3><a href="/2017/12/24/microsoft-sql-server-r-services-internals-xvi/"> Microsoft SQL Server R Services - Internals XVI <small> (24 Dec 2017)</small> </a></h3> </div> <div class="related-posts"> <h3><a href="/2017/12/02/microsoft-sql-server-r-services-internals-xv/"> Microsoft SQL Server R Services - Internals XV <small> (02 Dec 2017)</small> </a></h3> </div> <div class="related-posts"> <h3><a href="/2017/11/25/microsoft-sql-server-r-services-internals-xiv/"> Microsoft SQL Server R Services - Internals XIV <small> (25 Nov 2017)</small> </a></h3> </div> </div> <div id="disqus_thread"></div> <script> var disqus_developer = 1; (function() { /*DON'T EDIT BELOW THIS LINE*/ var d = document, s = d.createElement('script'); s.src = '//manageddata.disqus.com/embed.js'; s.setAttribute('data-timestamp', +new Date()); (d.head || d.body).appendChild(s); })(); </script> <noscript>Please enable JavaScript to view the <a href="https://disqus.com/?ref_noscript" rel="nofollow">comments powered by Disqus.</a></noscript> </div> <script> (function(i,s,o,g,r,a,m){i['GoogleAnalyticsObject']=r;i[r]=i[r]||function(){ (i[r].q=i[r].q||[]).push(arguments)},i[r].l=1*new Date();a=s.createElement(o), m=s.getElementsByTagName(o)[0];a.async=1;a.src=g;m.parentNode.insertBefore(a,m) })(window,document,'script','//www.google-analytics.com/analytics.js','ga'); ga('create', 'UA-18914734-2', 'auto'); ga('send', 'pageview'); </script> </body> </html>
